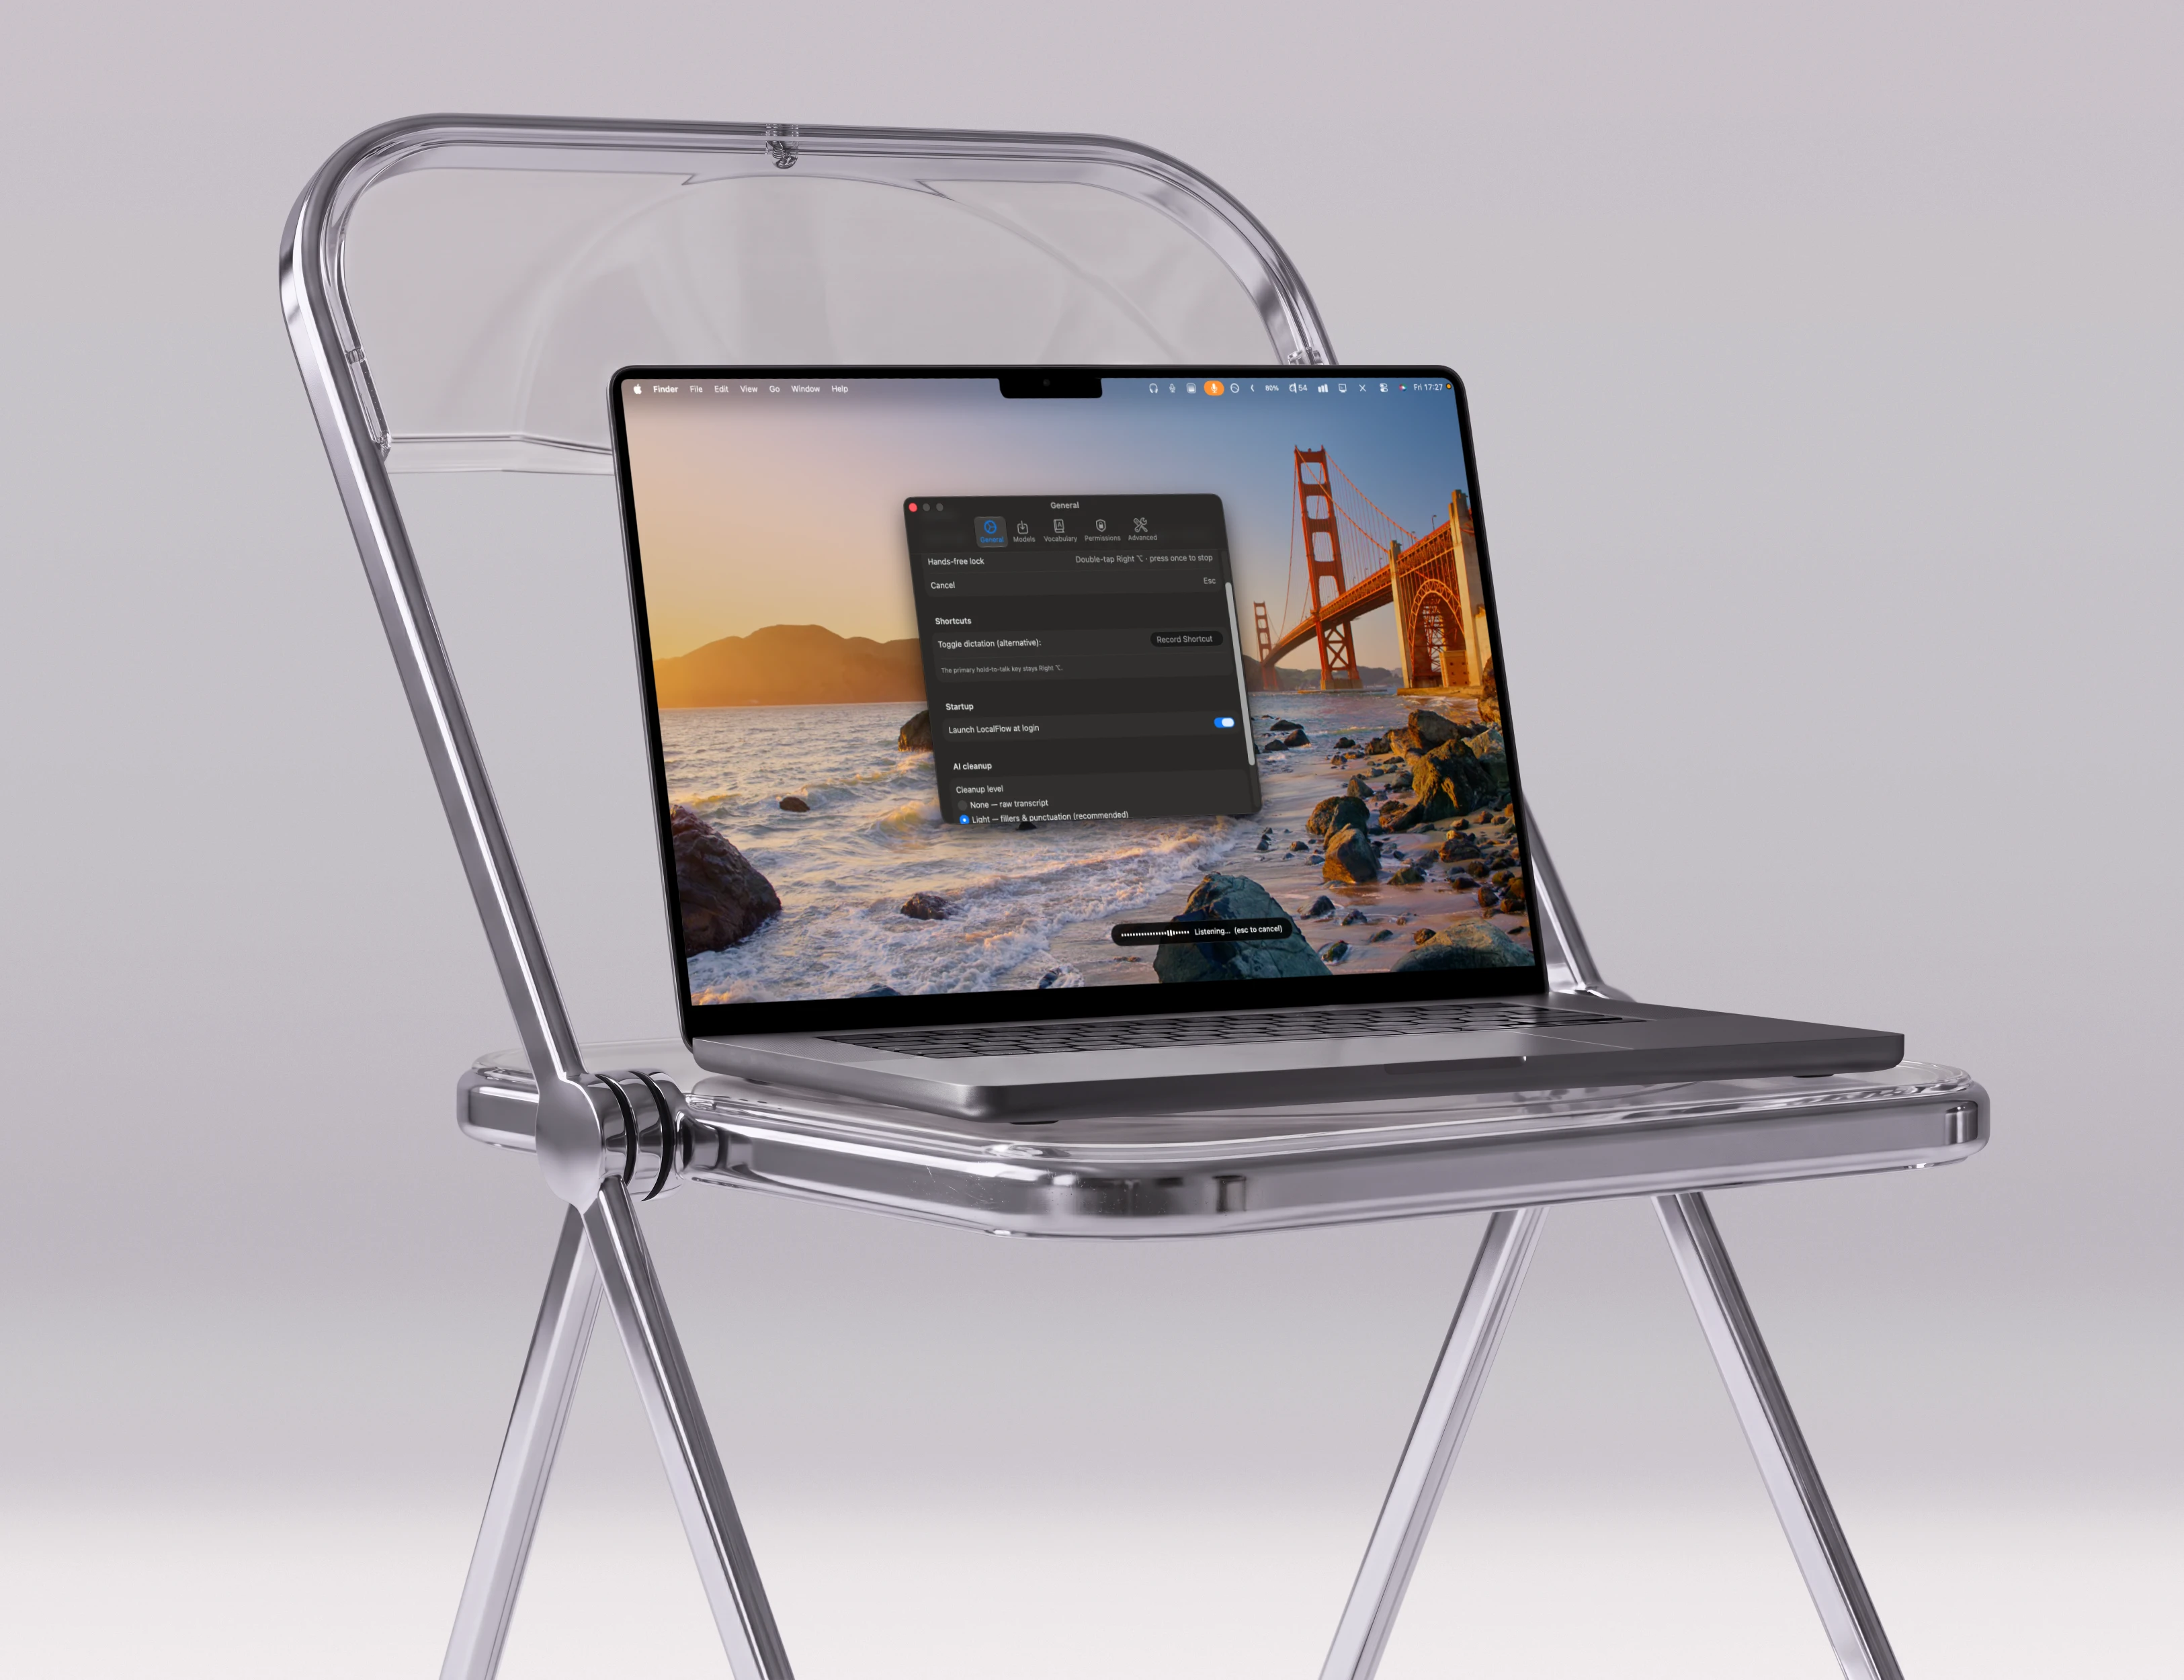
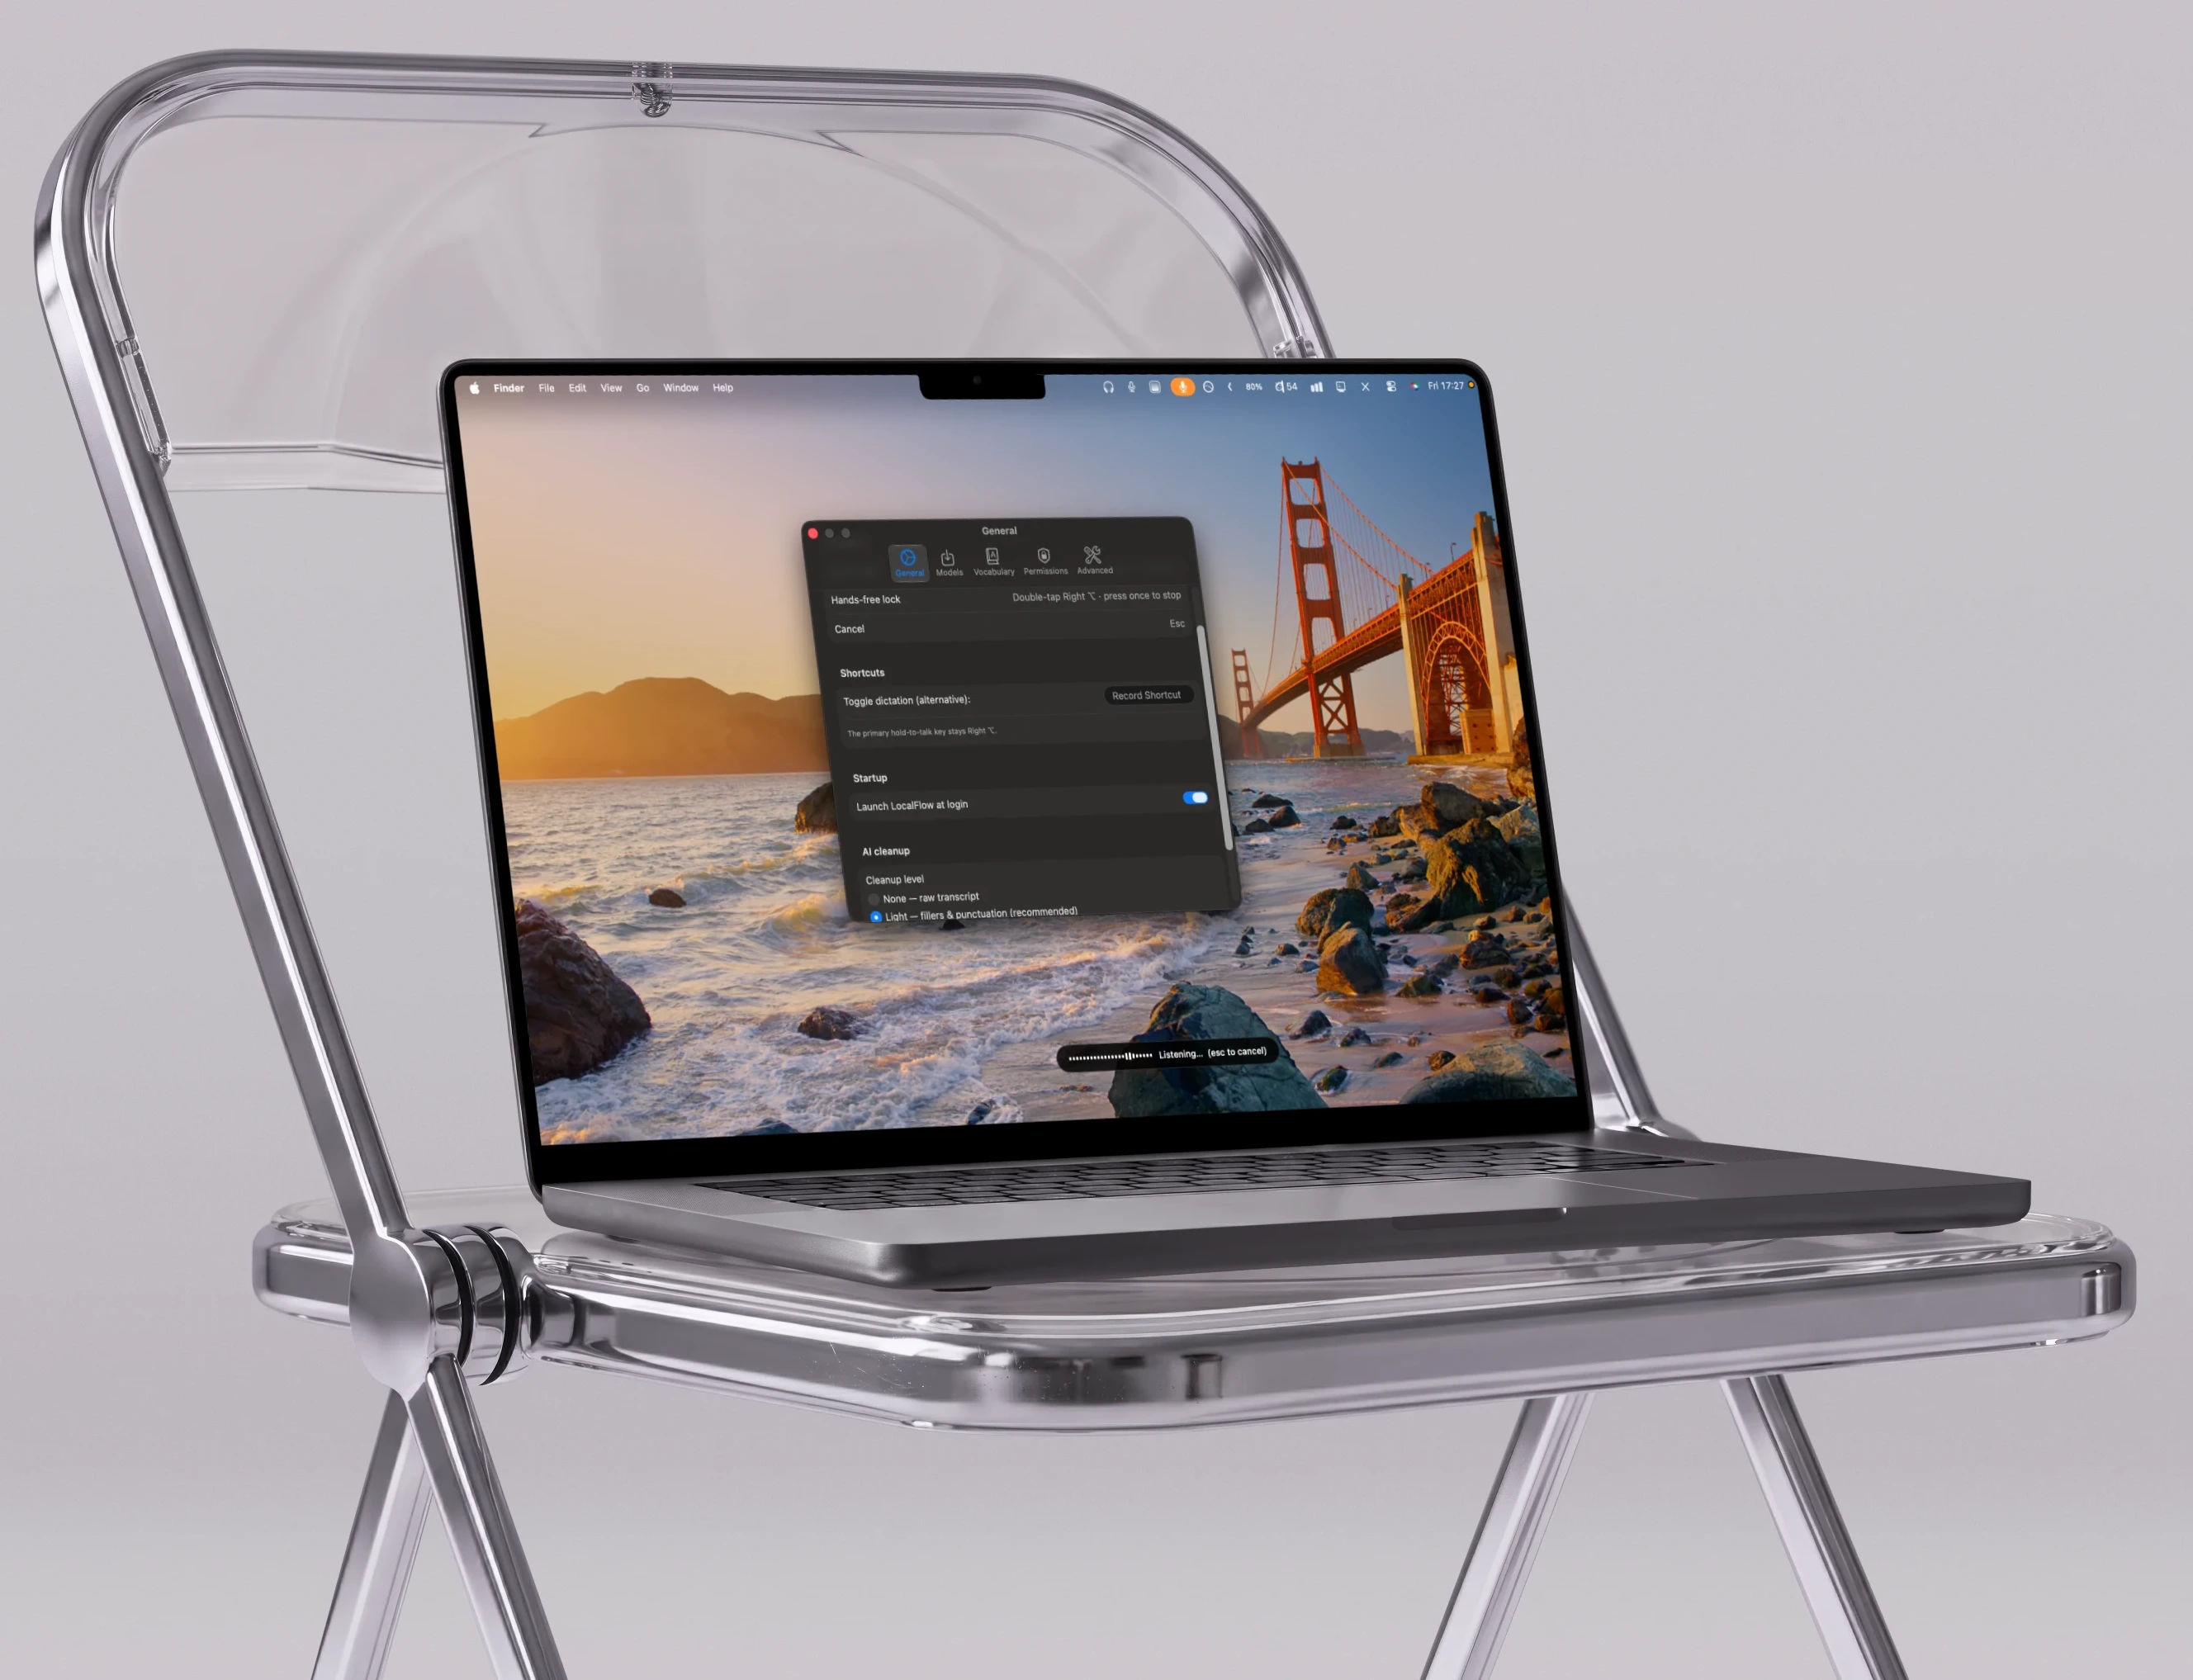
feat: update ABOUT.md with current year and adjust hero alt text for accessibility

diff --git a/web/src/components/Hero.tsx b/web/src/components/Hero.tsx
@@ -33,7 +33,9 @@ export function Hero({ about }: { about: About }) {
                 }`}
                 style={index ? { transitionDelay: `${index * 140}ms` } : undefined}
               >
-                {word}
+                {/* Trailing space keeps the accessible name "Fredrik Haugen",
+                    not "FredrikHaugen"; display:block hides it visually. */}
+                {word}{" "}
               </span>
             ))}
           </h1>

diff --git a/web/src/app/layout.tsx b/web/src/app/layout.tsx
@@ -38,7 +38,7 @@ export const metadata: Metadata = {
         url: "/og/home.jpg",
         width: 1200,
         height: 630,
-        alt: "The Mune site on a laptop and a phone.",
+        alt: "The haugendesign logo mark.",
       },
     ],
   },

diff --git a/.claude/rules/ABOUT.md b/.claude/rules/ABOUT.md
@@ -18,7 +18,7 @@ Fullstack developer. Oslo. Currently building an encrypted app nobody asked me t
 
 ## Short bio (for hero / meta description)
 
-I build things that hold private thoughts. Right now that's Mune, an encrypted chat and journal app I've been working on since the start of 2025. Before that I spent four years designing and shipping client websites under my own name.
+I build things that hold private thoughts. Right now that's Mune, an encrypted chat and journal app I've been working on since the start of 2026. Before that I spent four years designing and shipping client websites under my own name.
 
 ## Long bio (About section)
 
@@ -26,13 +26,13 @@ I started in design. Client sites, brand identity, the kind of work where the de
 
 The current thing is Mune. It's a chat-and-journal app that's end-to-end encrypted, which means the server holds a blob it can't read. I built it because I kept writing things in Apple Notes at 2 AM and deleting them before morning, and after enough deleted notes it seemed easier to build the thing than to keep pretending it didn't matter.
 
-I ride enduro in the forest north of Oslo. I draw. Neither of those are on this website,
+I ride enduro in the forest north of Oslo. I draw. Neither of those are on this website.
 
 ## Work
 
 ### Founder & Fullstack Developer — Mune
 
-Oslo. 2025 – Present. Encrypted chat and journal app. Next.js 16, Supabase, Clerk, Claude API, Turborepo monorepo, Expo/React Native for iOS. End-to-end encryption: AES-256-GCM, DEK/KEK/KRK key hierarchy, BIP39 recovery phrase, zero-knowledge server. Solo: architecture, product, design, copy, launch.
+Oslo. 2026 – Present. Encrypted chat and journal app. Next.js 16, Supabase, Clerk, Claude API, Turborepo monorepo, Expo/React Native for iOS. End-to-end encryption: AES-256-GCM, DEK/KEK/KRK key hierarchy, BIP39 recovery phrase, zero-knowledge server. Solo: architecture, product, design, copy, launch.
 
 ### Frontend Developer — Videocation
 
@@ -73,6 +73,8 @@ Institution paragraphs:
 2017 – 2018.
 
 ### Media & Communication — Lund University
+
+2018 – 2019.
 
 ## Skills
 